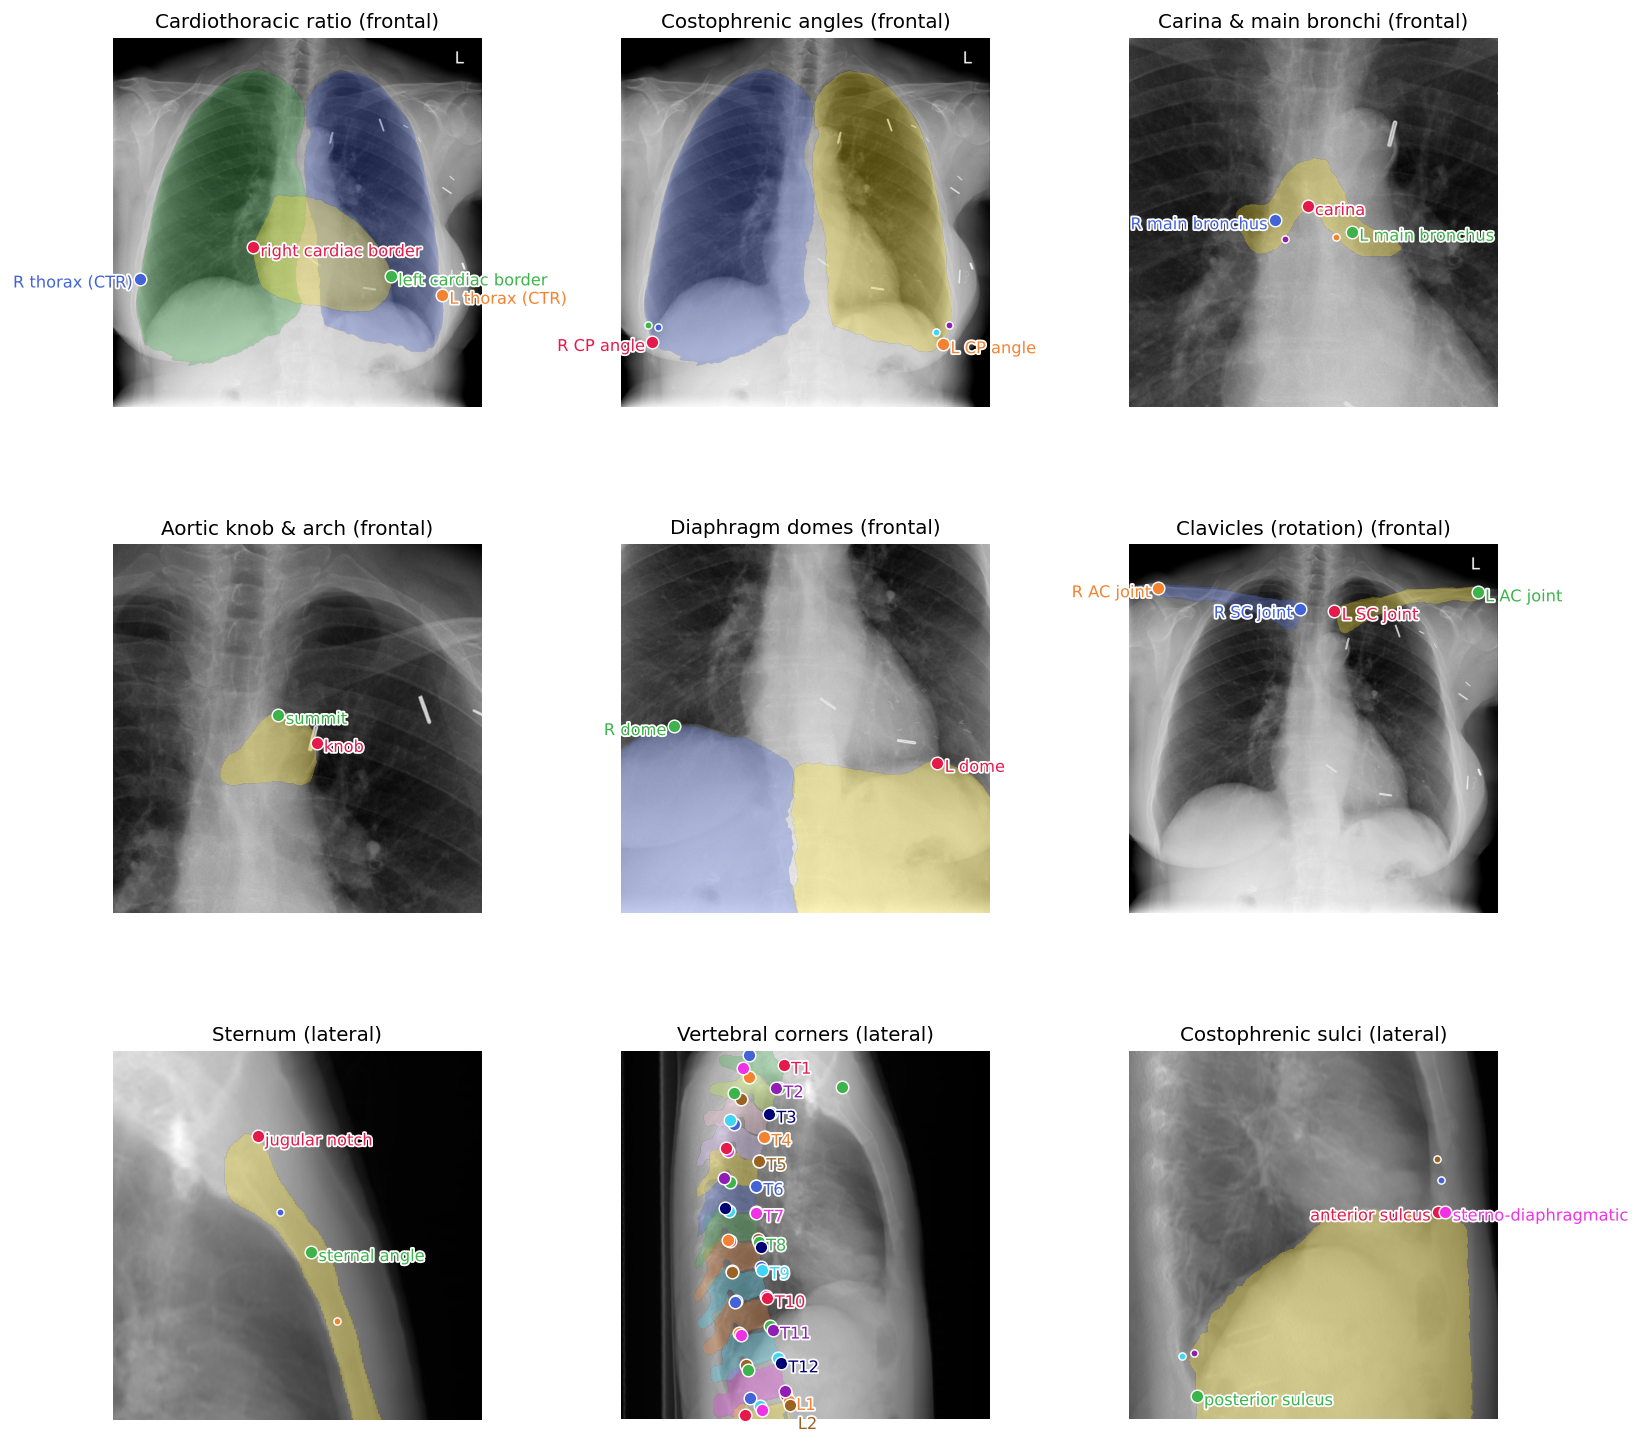
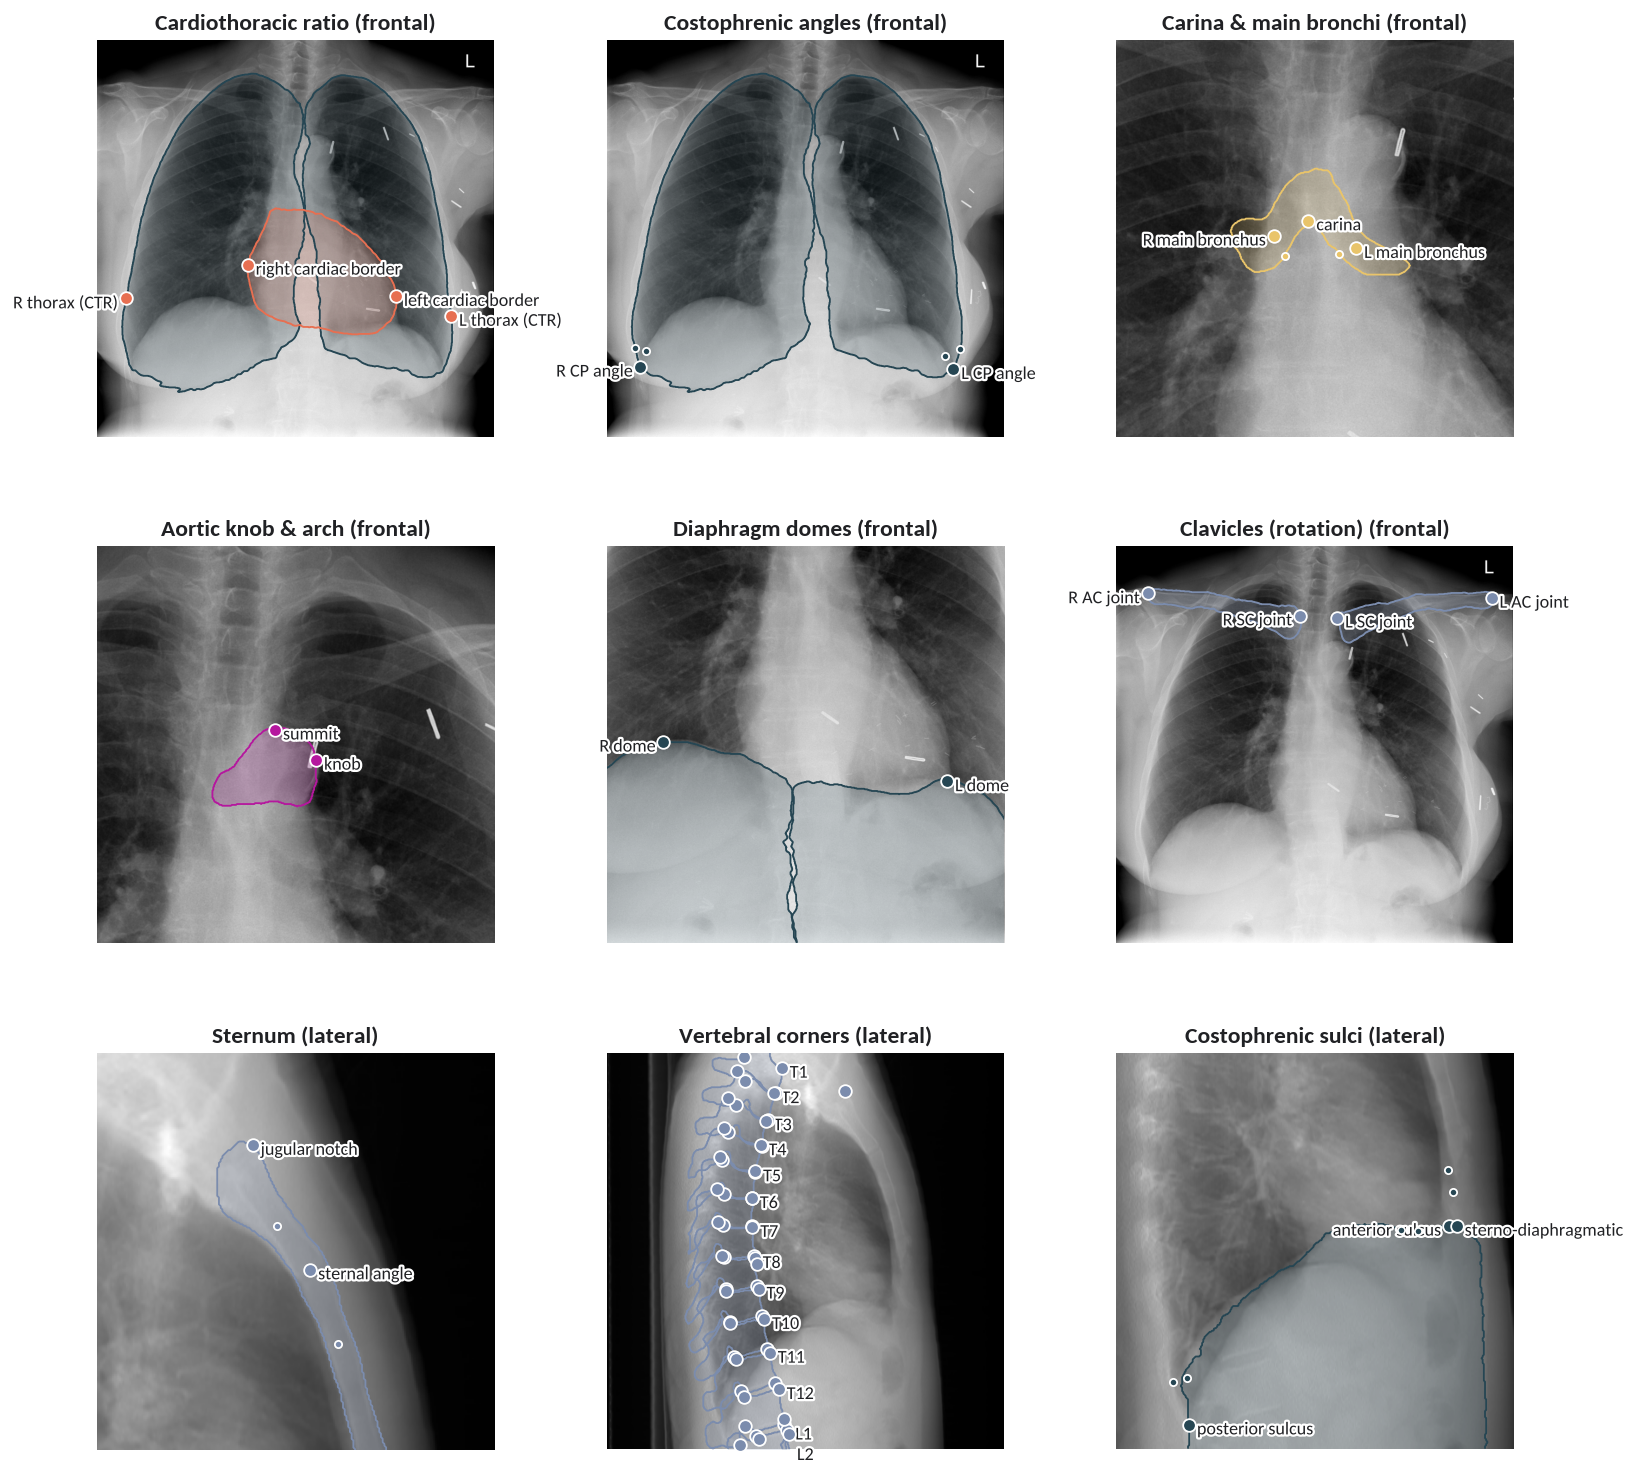
README examples: mask outlines and region colours as in the paper's Fig. 1
Claude-Session: https://claude.ai/code/session_01CWedeP2xcb66zpF7t6MFJo

diff --git a/scripts/make_readme_figure.py b/scripts/make_readme_figure.py
@@ -7,15 +7,15 @@ from __future__ import annotations
 
 import argparse
 import csv
+from collections import Counter
 from pathlib import Path
 
 import matplotlib
 
 matplotlib.use("Agg")
+import matplotlib.font_manager as fm  # noqa: E402
 import matplotlib.patheffects as pe  # noqa: E402
 import matplotlib.pyplot as plt  # noqa: E402
-import numpy as np  # noqa: E402
-from matplotlib.colors import to_rgb  # noqa: E402
 from pycocotools import mask as mask_util  # noqa: E402
 
 from cxrlandmarks.predict import LandmarkPredictor, load_image  # noqa: E402
@@ -30,17 +30,27 @@ SHORT = {"acromioclavicular_clavicular": "AC joint", "sternoclavicular_clavicula
          "costophrenic_pulmonary": "CP angle", "ctr_thorax": "thorax (CTR)", "posterior_costophrenic": "posterior sulcus",
          "anterior_costophrenic": "anterior sulcus", "sternodiaphragmatic_vertex": "sterno-diaphragmatic",
          "left_main_bronchus": "L main bronchus", "right_main_bronchus": "R main bronchus"}
-MASK_COLORS = ["#ffe119", "#4363d8", "#3cb44b", "#f58231", "#42d4f4", "#f032e6", "#bfef45", "#fabed4", "#dcbeff"]
-COLORS = ["#e6194b", "#3cb44b", "#4363d8", "#f58231", "#911eb4", "#42d4f4", "#f032e6", "#9a6324", "#000075"]
+# Region colours of the paper's Fig. 1 and Fig. 2: a landmark takes the region of its group, a structure the
+# region most of its landmarks belong to.
+REGION_COLOR = {"Heart & mediastinum": "#e76f51", "Vessels": "#b5179e", "Airway": "#e9c46a",
+                "Devices / lines": "#f4a261", "Lungs": "#2a9d8f", "Pleura & diaphragm": "#264653",
+                "Bones": "#7b8cad", "Soft tissue": "#c9a0a6", "Abdomen / other": "#9aa0a6", "Meta": "#d5d8dc"}
+GROUP_REGION = {"G01": "Heart & mediastinum", "G02": "Pleura & diaphragm", "G03": "Heart & mediastinum",
+                "G04": "Pleura & diaphragm", "G05": "Lungs", "G06": "Lungs", "G07": "Heart & mediastinum",
+                "G08": "Heart & mediastinum", "G09": "Vessels", "G10": "Vessels", "G11": "Vessels", "G12": "Airway",
+                "G13": "Airway", "G14": "Devices / lines", "G15": "Devices / lines", "G16": "Heart & mediastinum",
+                "G17": "Bones", "G18": "Bones", "G19": "Bones", "G20": "Bones", "G21": "Lungs", "G22": "Lungs",
+                "G23": "Soft tissue", "G24": "Bones", "G25": "Vessels", "G26": "Abdomen / other", "G27": "Meta"}
 
 
-def group_of() -> dict[tuple[str, str, str], str]:
-    g = {}
+def group_of() -> tuple[dict[tuple[str, str, str], str], dict[str, str]]:
+    g, regions = {}, {}
     for r in csv.DictReader(open(VOCAB / "landmarks.csv")):
         for view in ("frontal", "lateral"):
             for c in filter(None, (s.strip() for s in r[f"classes_{view}"].split(";"))):
                 g[(view, c, r["landmark"])] = r["group"]
-    return g
+                regions.setdefault(c, Counter())[GROUP_REGION[r["group"]]] += 1
+    return g, {c: REGION_COLOR[cnt.most_common(1)[0][0]] for c, cnt in regions.items()}
 
 
 def label(cls: str, lm: str) -> str | None:
@@ -71,9 +81,14 @@ def main() -> None:
     ap.add_argument("--frontal", required=True)
     ap.add_argument("--lateral", required=True)
     ap.add_argument("--out", required=True, type=Path)
+    ap.add_argument("--font-dir", type=Path, help="optional .ttf folder (the paper figures use Carlito)")
     a = ap.parse_args()
+    if a.font_dir:
+        for f in a.font_dir.glob("*.ttf"):
+            fm.fontManager.addfont(str(f))
+        plt.rcParams["font.family"] = "Carlito"
     pred = LandmarkPredictor.from_pretrained(a.weights, device="cpu")
-    gmap = group_of()
+    gmap, cls_color = group_of()
     rows = [("frontal", a.frontal), ("lateral", a.lateral)]
     panels = [(view, path, g) for view, path in rows for g in PANELS[view]]
     ncol = 3
@@ -88,19 +103,19 @@ def main() -> None:
         pts = [lm for lm in out["landmarks"] if gmap.get((view, lm["class"], lm["landmark"])) == gid]
         x0, x1, y1, y0 = crop(pts, *img.shape[:2])
         masks = {st["class"]: st["mask_rle"] for st in out["structures"]}
-        decoded = [(cls, mask_util.decode(masks[cls]).astype(bool))
+        decoded = [(cls, mask_util.decode(masks[cls]).astype(float))
                    for cls in sorted({lm["class"] for lm in pts} & masks.keys())]
-        for i, (cls, m) in sorted(enumerate(decoded), key=lambda t: -t[1][1].sum()):  # small structures on top
-            overlay = np.zeros((*img.shape[:2], 4))
-            overlay[m] = (*to_rgb(MASK_COLORS[i % len(MASK_COLORS)]), 0.3)
-            ax.imshow(overlay)
+        for cls, m in sorted(decoded, key=lambda t: -t[1].sum()):  # small structures on top
+            col = cls_color.get(cls, "#9aa0a6")
+            ax.contourf(m, levels=[0.5, 1.5], colors=[col], alpha=0.18)
+            ax.contour(m, levels=[0.5], colors=[col], linewidths=1.0)
         ax.set_xlim(x0, x1)
         ax.set_ylim(y1, y0)
         placed = []
         if True:
-            for k, lm in enumerate(pts):
-                col = COLORS[k % len(COLORS)]
-                ax.plot(lm["x"], lm["y"], "o", ms=4 if "limb" in lm["landmark"] else 7, mfc=col, mec="white", mew=0.8)
+            for lm in pts:
+                col = REGION_COLOR[GROUP_REGION[gid]]
+                ax.plot(lm["x"], lm["y"], "o", ms=4 if "limb" in lm["landmark"] else 7, mfc=col, mec="white", mew=1.0, zorder=4)
                 text = label(lm["class"], lm["landmark"])
                 if text is None:
                     continue
@@ -113,9 +128,9 @@ def main() -> None:
                 placed.append((lm["x"], ty, left))
                 ax.annotate(text, (lm["x"], lm["y"]), xytext=(lm["x"] + (-0.02 if left else 0.02) * side, ty),
                             ha="right" if left else "left", va="center",
-                            textcoords="data", fontsize=9, color=col,
-                            path_effects=[pe.withStroke(linewidth=2, foreground="white")])
-            ax.set_title(f"{title} ({view})", fontsize=11)
+                            textcoords="data", fontsize=10, color="#202124",
+                            path_effects=[pe.withStroke(linewidth=2.5, foreground="white")])
+            ax.set_title(f"{title} ({view})", fontsize=13, fontweight="bold", color="#202124")
     fig.tight_layout(h_pad=0.6, w_pad=0.4)
     a.out.parent.mkdir(parents=True, exist_ok=True)
     fig.savefig(a.out, dpi=130, bbox_inches="tight")

diff --git a/README.md b/README.md
@@ -9,7 +9,7 @@ over the predicted masks of the structures they are defined on. Frontal: an unse
 radiograph from NIH ChestX-ray14 (NIH Clinical Center). Lateral: a PAXRay++ test image (CT
 projection), as no openly licensed real lateral radiograph was at hand. Small unlabelled points are
 the limb points of angles and the remaining vertebral corners. Generated with
-`scripts/make_readme_figure.py`.*
+`scripts/make_readme_figure.py` (colours by region, as in the paper).*
 
 Code, definitions and weights for the paper *Semantic landmark detection in chest radiographs*
 (Seibold, Havemann, Vinu, Fink), currently under review.
